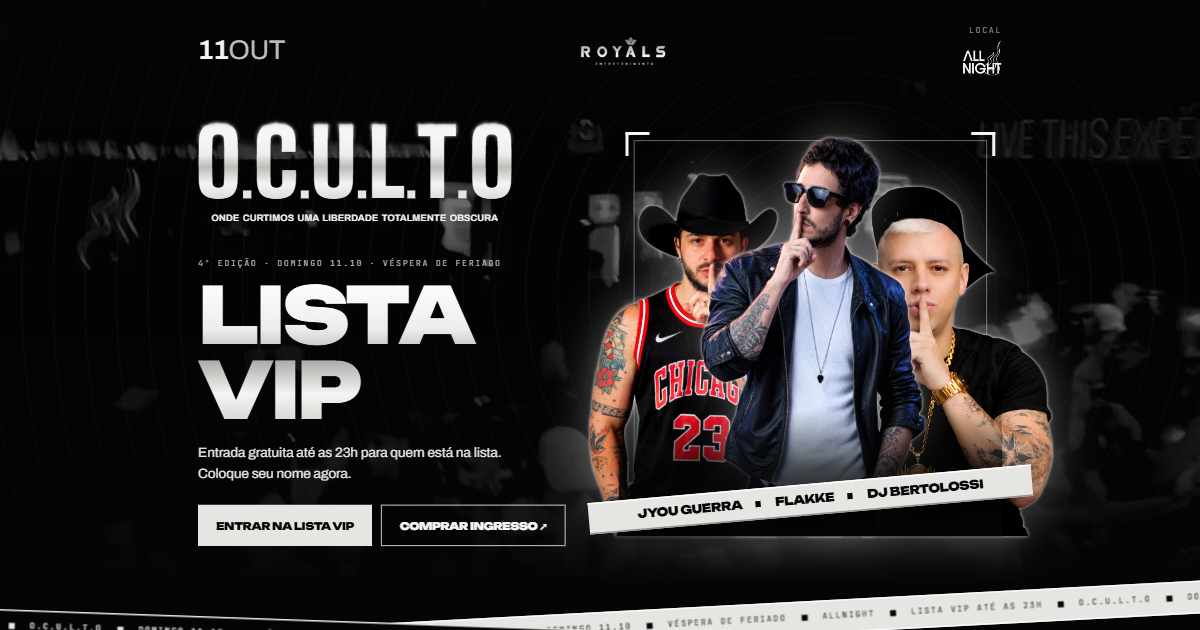
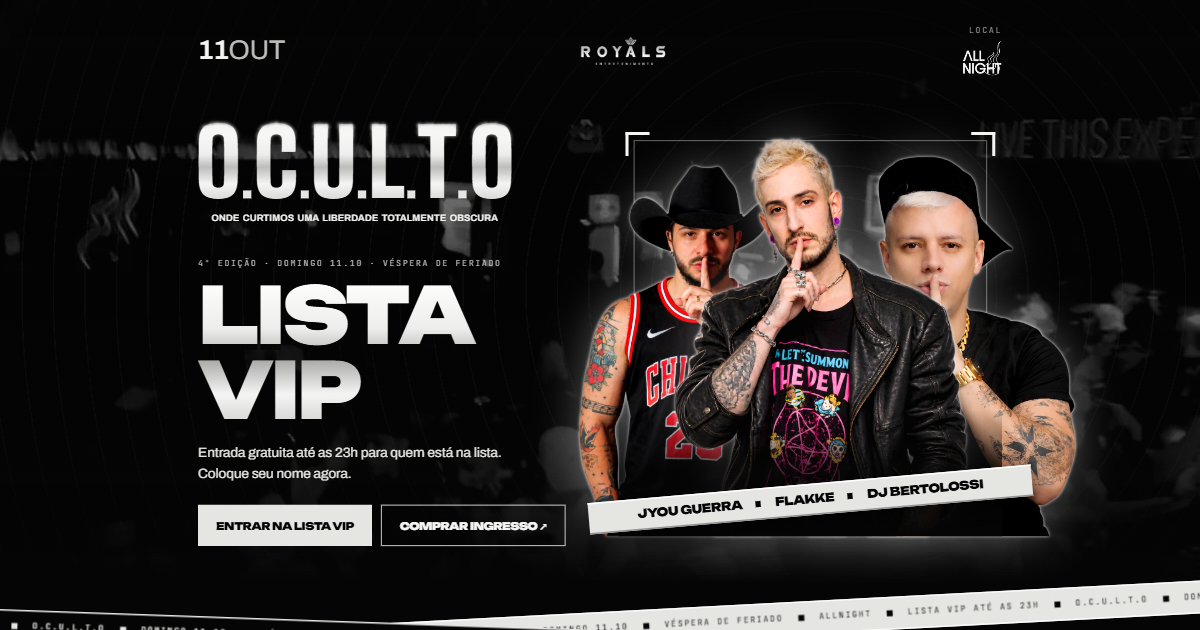
Foto nova do Flakke no site
- Recorte novo (public/img/flakke.webp), no mesmo enquadramento do anterior
- Trio do topo reajustado: a jaqueta nao cobre mais o rosto do DJ Bertolossi
- Cartao do line-up aproxima a foto do artista principal (zoomCartao)
- Imagem de compartilhamento refeita

diff --git a/src/lib/evento.ts b/src/lib/evento.ts
@@ -23,12 +23,12 @@ export const listaAberta = (agora: number = Date.now()) => agora < FECHA_LISTA.g
 /** Compra de ingressos. O endereço veio do link da bio; tirei o identificador de clique e marquei a origem. */
 export const INGRESSOS = 'https://shopingressos.com.br/comprar/5177/o-c-u-l-t-o?utm_source=pagina-vip&utm_medium=site&utm_campaign=oculto-4';
 
-export type Artista = { id: string; nome: string; selo: string; foto: string; largura: number; altura: number };
+export type Artista = { id: string; nome: string; selo: string; foto: string; largura: number; altura: number; /** aproxima a foto no cartão do line-up (1 = sem aproximar) */ zoomCartao?: number };
 
 /** Flakkë é o artista principal: fica no centro e na frente em toda montagem. */
 export const ARTISTAS: Artista[] = [
   { id: 'jyou', nome: 'JYOU GUERRA', selo: 'NO LINE-UP', foto: '/img/jyou.webp', largura: 786, altura: 1300 },
-  { id: 'flakke', nome: 'FLAKKE', selo: 'ATRAÇÃO PRINCIPAL', foto: '/img/flakke.webp', largura: 752, altura: 1300 },
+  { id: 'flakke', nome: 'FLAKKE', selo: 'ATRAÇÃO PRINCIPAL', foto: '/img/flakke.webp', largura: 1000, altura: 1300, zoomCartao: 1.18 },
   { id: 'bertolossi', nome: 'DJ BERTOLOSSI', selo: 'NO LINE-UP', foto: '/img/bertolossi.webp', largura: 949, altura: 1300 },
 ];
 

diff --git a/src/app/page.tsx b/src/app/page.tsx
@@ -81,7 +81,7 @@ export default function Pagina() {
                 <div className="relative aspect-[4/5] overflow-hidden">
                   <div className="absolute inset-0" style={{ background: 'radial-gradient(ellipse 70% 55% at 50% 40%, rgba(255,255,255,.2) 0%, transparent 72%)' }} aria-hidden />
                   {/* eslint-disable-next-line @next/next/no-img-element -- recorte com transparência, já em WebP */}
-                  <img src={a.foto} alt={a.nome} width={a.largura} height={a.altura} loading="lazy" className="absolute bottom-0 left-1/2 h-[96%] w-auto max-w-none -translate-x-1/2 object-contain" />
+                  <img src={a.foto} alt={a.nome} width={a.largura} height={a.altura} loading="lazy" className="absolute left-1/2 w-auto max-w-none -translate-x-1/2 object-contain" style={{ height: `${96 * (a.zoomCartao ?? 1)}%`, bottom: `${-96 * ((a.zoomCartao ?? 1) - 1)}%` }} />
                   <div className="absolute inset-x-0 bottom-0 h-1/3" style={{ background: 'linear-gradient(180deg, transparent, #050505)' }} aria-hidden />
                 </div>
                 <div className="relative -mt-12 px-5 pb-6">

diff --git a/src/components/trio.tsx b/src/components/trio.tsx
@@ -9,8 +9,8 @@ import { ARTISTAS } from '@/lib/evento';
 
 // posição de cada um dentro do quadro (em % da largura / altura do quadro) e quanto ele se mexe
 const LUGAR: Record<string, { esquerda: number; altura: number; fundo: number; atraso: number }> = {
-  jyou: { esquerda: 21, altura: 86, fundo: 10, atraso: 150 },
-  bertolossi: { esquerda: 80, altura: 83, fundo: 10, atraso: 300 },
+  jyou: { esquerda: 19, altura: 88, fundo: 10, atraso: 150 },
+  bertolossi: { esquerda: 83, altura: 90, fundo: 10, atraso: 300 },
   flakke: { esquerda: 50, altura: 96, fundo: 22, atraso: 520 },
 };
 const ORDEM = ['jyou', 'bertolossi', 'flakke'];

diff --git a/TODO.md b/TODO.md
@@ -13,3 +13,4 @@
 - [x] 2026-10-08 · Banco no Neon: projeto "oculto" (us-east-1, organização Mazari) criado; gravação testada de ponta a ponta com o build de produção e nome de teste apagado.
 - [x] 2026-10-08 · Conferência no computador (1440 px) e no celular (390 px), build de produção e imagem de compartilhamento.
 - [x] 2026-10-08 · No ar em https://oculto-omega.vercel.app, com `DATABASE_URL` e `LISTA_SENHA` configuradas; envio de teste gravou no Neon e foi apagado. Corrigido o 404 do primeiro deploy (`vercel.json`).
+- [x] 2026-10-08 · Foto nova do Flakkë (loiro, jaqueta de couro) no topo, no line-up e na imagem de compartilhamento; trio reajustado para a jaqueta não cobrir o rosto do DJ Bertolossi.
